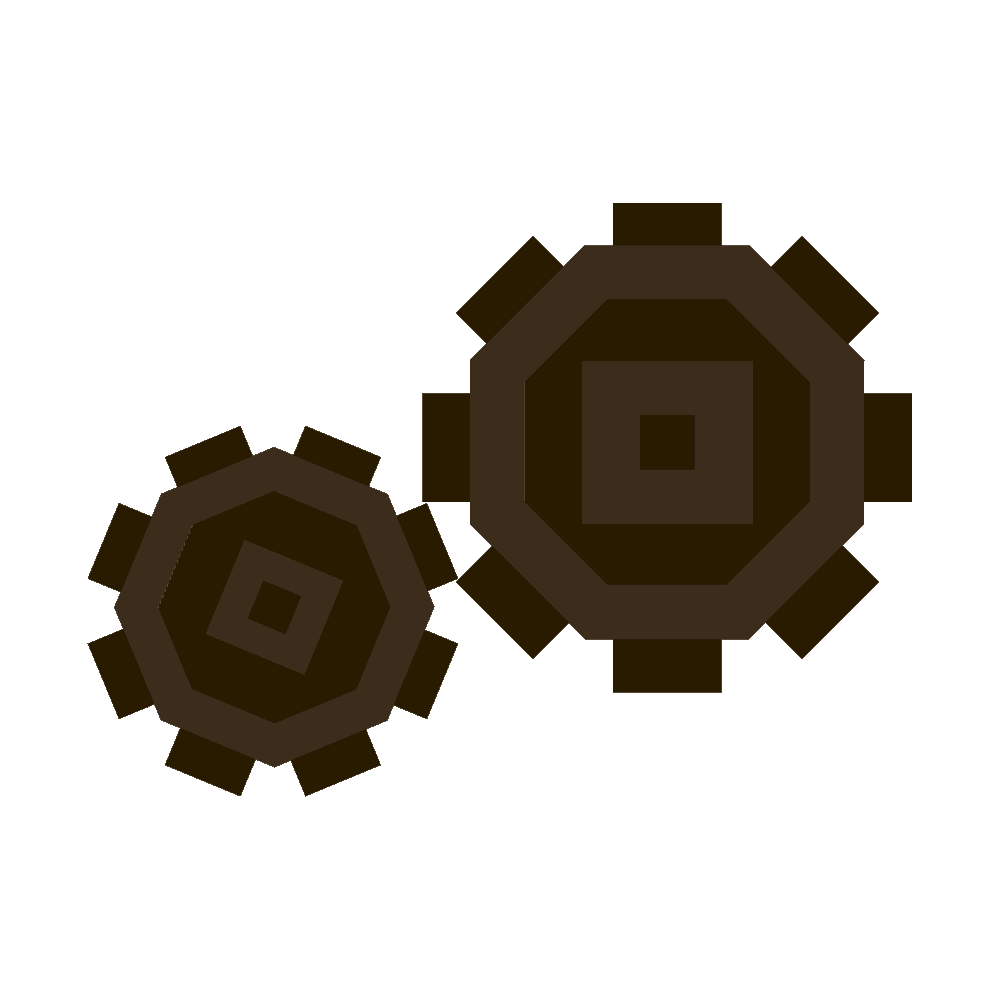
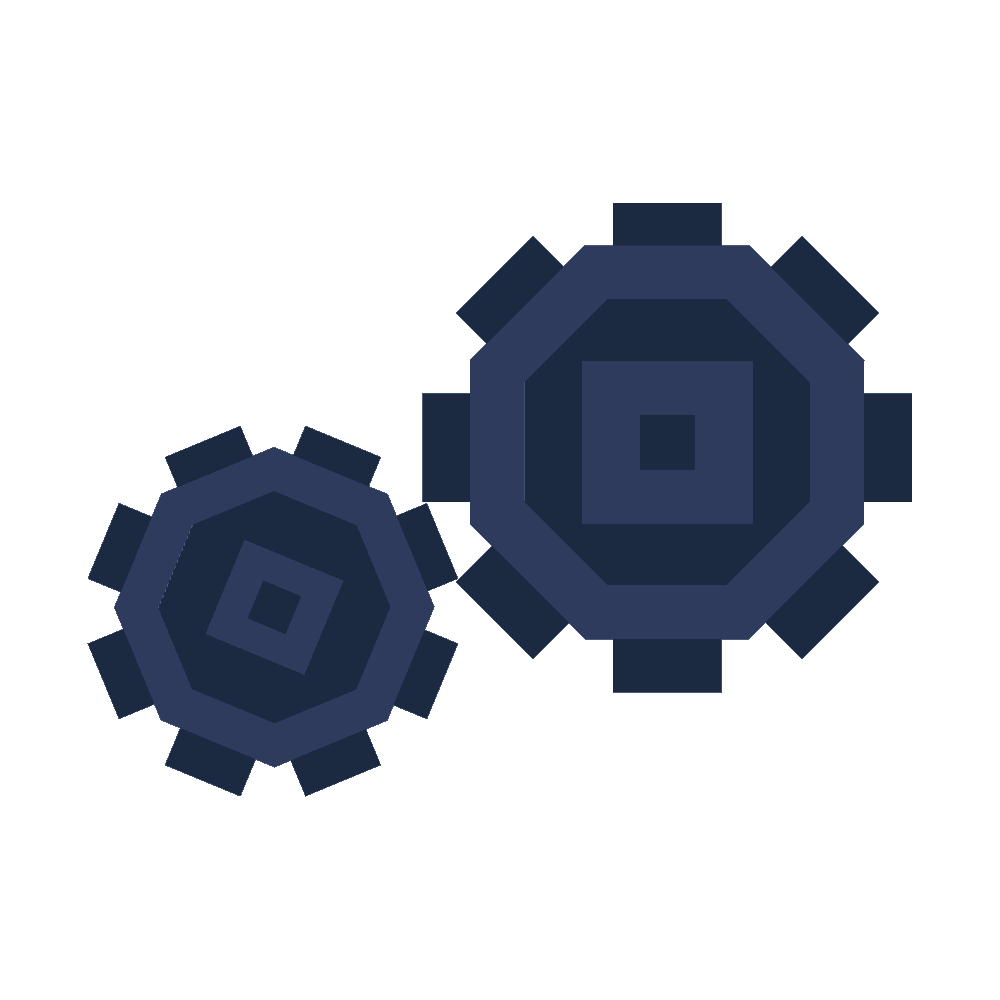
открытие

Changed region(s): [[0.093, 0.186, 0.93, 0.806]]

diff --git a/content/silent_revenge_office/mechanics.md b/content/silent_revenge_office/mechanics.md
@@ -1,0 +1,89 @@
+---
+title: Механики
+---
+Если бы это было игрой...
+
+# Отражения
+## Характеристики
+**Здоровье** рассчитывается по формуле `Основное здоровье + (Уровень Отражения - 1) ^ 1,15 * 10`.  
+**Щит** даёт временный очки здоровья в начале хода по формуле `Недостающее здоровье * Значение Щита`.  
+
+Редкость **VP** - Двойной показатель:
+- V - Value - Ценность - Отношение Отражения к основному сюжету
+- P - Probability - Вероятность - Вероятность того, что Работник мог прийти к такой судьбе - Является негативным показателем
+
+Общий показатель VP высчитывается по формуле `V - P + 4` и принимает целые значения от 0 до 8. Высокая ценность повышает Редкость, а высокая вероятность - снижает.
+
+Стандартные Отражения имеют VP, равное V5P5 = 4.  
+Они имеют высшую ценность, так как являются самими Работниками в основном сюжете. По этой же причине их вероятность тоже максимальная - они уже здесь.
+
+## *Uptie*
+У местного Uptie пока нет названия. Работает он скорее на качественное улучшение Отражение, чем количественное:
+- I - У Отражения доступны только навыки 1 Ранга и Базовая Пассивка.
+- II - Доступны навыки 2 Ранга и Боевые Пассивки.
+- III - Доступны все остальные навыки и Вспомогательные Пассивки.
+- IV - Усиление.
+
+Также переработана оригинальная система Историй Идентичности.  
+Местная система **Историй Отражений** разделяет одру историю Идентичности, на 4 фрагмента, каждый доступен после повышения Uptie:
+- I - Вводная I - Личность Отражения
+- II - Вводная II - Бой Отражения
+- III - Углублённая I - События в жизни Отражения
+- IV - Углублённая II - События в жизни Отражения
+
+Также, если в LCB в этих историях рассказчиком выступал Грешник из того Зеркального Мира или "так называемы Голос в голове", то здесь *наши* Работники наблюдают за своим Отражением и являются рассказчиками.
+
+Если Отражение основано на личности или организации, которые появляются в основном сюжете и играют весомую роль, то его Uptie ограничен II тиром, и дальнейшая прокачка будет открыта только при достижении определённого момента истории.
+
+Также, у Отражений могут быть и побочные истории. Некоторые из них также будут требовать определённой прогрессии в сюжете.
+
+# Навыки
+## Ротация
+Аналогично LCB, но с нюансами.  
+У каждого слота действий также есть свой столбец, но теперь, вместо того, чтобы вмещать 2 атакующих навыка, есть две строки. Верхняя вмещает один навык **Атаки** и нижняя вмещает один навык **Защиты**. ЭГО навыки помещаются в верхнюю строку.
+
+Если в LCB стандартным набором навыков является:
+- 3x Атака 1 Ранга
+- 2x Атака 2 Ранга
+- 1x Атака 3 Ранга
+- Защита, требующая отдельной активации
+
+То в ОТМ это:
+- 2x Атака 1 Ранга
+- 1x Атака 2 Ранга
+- 2x Защита 1 Ранга
+- 1x Защита 2 Ранга
+
+## Защитные навыки
+Здесь они сильно отличаются.  
+По сути своей, это те же самые навыки **Атаки**, но при проигрыше в столкновении, остаётся одна монета (если в навыке не указано иное) и активируется защитный эффект, указанные в навыке.  
+У стандартных Отражений навыки **Защиты** просто являются урезанными версиями **Атак** соответствующего ранга.
+
+Если **Атакующий** навык уже нацелен, то **Защитный** можно сделать *реактивным*. Он будет автоматически активироваться против первой односторонней атаки на этого Работника. Возможно. придумаю отдельные эффекты для реактивной Защиты для некоторых Отражений.
+
+При проигрыше у защитного навыка остаётся только одна монета при применении защиты.
+
+# Статусы
+## "Изменение Статуса"
+Я использую свой синтаксис для описания изменений значений Статусов, нацеленный для то, чтобы сделать описания более краткими и чистыми.
+
+В первую очередь, понятия "Сила" и "Счётчик" не играют такой важной роли как в LCB.  
+Если есть Статус, у которого только Сила или только Счётчик, то он обозначается X.  
+Если есть и Сила, и Счётчик, то - X:Y, где X - Сила, Y - Счётчик.  
+Такая система также предполагает создание Статусов с тремя и более значениями без нужды придумывать новые понятия наряду с "Сила" и "Счётчик".
+
+Изменение значений Статуса обозначается арифметическим знаком перед числом. Например:
+- +3 - Увеличит значение на 3.
+- -5:+0 - Уменьшит Силу на 5.
+- +0:\*2 - Увеличит Счётчик в 2 раза.
+
+Стоит обратить внимание, что если значение не меняется, то ставится +0. Это потому, что:
+- 3 - Сделает значение *равным* 3.
+- -5:0 - Уменьшит Силу на 5 и сделает Счётчик *равным* 0.
+- 0:\*2 - Сделает Силу *равной* 0 и увеличит Счётчик в 2 раза.
+
+## "Равность Статуса"
+Сравнение значений статуса для условий работает схожим образом:
+- \>3 - Если текущее значение больше чем 3.
+- <5:0 - Если текущая Сила меньше 5 и Счётчик равен 0.
+- !0:>=2 - Если текущая Сила не равна 0 и Счётчик больше или равен 2.

diff --git a/content/silent_revenge_office/neotes/reflections.md b/content/silent_revenge_office/neotes/reflections.md
@@ -20,6 +20,8 @@ title: Отражения
 Кстати, стоит подробней объяснить про форму нашего Офиса. Таинственное Лицо поделилось ещё своей разработкой, которую и представляет собой наша особая одежда. Когда она не надета, она полностью белая, в том числе и акцентные нити. Если такую одежду наденет человек, то она окрасится в цвет, соответствующий нашей Проекции Спектра для надевшего (то есть, для всех нас, наш цвет Проекции - цвет нашего Офиса). А акцентные нити сменят свой цвет на тот, который соответствует этому конкретному человеку.
 Кстати, ещё одна функция Линзы - она может определить Истинный Цвет поверхности, на который наведена, независимо от освещения. Именно Истинный Цвет акцентных нитей и является личным цветом человека, потому что освещение может сильно влиять на восприятие.
 
+**\[\[ПОСЛЕ 8 СОБРАНИЯ\]\]**
+
 **Сбитая Дисперсия** - явление, которое мы обнаружили после... ситуации с Таинственным Лицом%%, то есть, Главой Нео%%. Название придумал Вудрус.  
 Если вставить в Линзу картридж, который мы нашли у Лица, то становятся доступны новые Проекции Спектра. Только вот они уже не подходят под то описание, которое я давал ранее. Там человек уже может сильно меняться.  
 После Треска Зеркала (название, которое мы дали тому событию с Лицом) я связался с компанией Лимбус, так как у них есть похожая технология.  
@@ -39,3 +41,12 @@ title: Отражения
 Они не только получат доступ к полноценным Идентичностям из Зеркальных Миров...  
 Кто знает, может, они смогут достигнуть такого Зеркального Мира, в котором даже не существует Города. Я уже знаю об одном таком Мире.  
 Великая Группа...%%
+
+---
+
+Если непонятно:
+- Отражение = Идентичность
+- Проекция Спектра = Зеркальный Мир
+- Линза = Зеркало
+
+Не совсем тоже самое, но аналогично.

diff --git a/content/silent_revenge_office/neotes/factions.md b/content/silent_revenge_office/neotes/factions.md
@@ -2,16 +2,16 @@
 title: Объединения
 draft: false
 ---
-# Театр Теней
+# Театр Теней \[СОБРАНИЕ 6\]
 Синдикат, базирующийся в 13-ом районе.  
 Проводят подпольные эксперименты, пытаясь использовать тени в качестве оружия.  
 Для отвлечения от своей деятельности проводят представления с шоу теней.  
 Ведёт активное противоборство с Обеденным Концертом.
-# Обеденный Концерт
+# Обеденный Концерт \[СОБРАНИЕ 6\]
 Синдикат, базирующийся в 13-лм районе.  
 Используют звуковые волны для физического и психического воздействия на человека.  
 Ведёт активное противоборство с Театром Теней.
-# Касание Гиппократа (т.и.к. Ассоциативные Целители)
+# Касание Гиппократа (т.и.к. Ассоциативные Целители) \[СБОРАНИЕ 7\]
 Офис, основной род деятельности которого заключается в предоставлении своих Корректировщиков для медицинских и рекреационных услуг.  
 Привычной практикой является подписание контракта между секцией Ассоциации и Корректировщиком Офиса, суть которого заключается в продолжительном пребывании Корректировщика в соответствующей секции для оказания услуг (за что Касание Гиппократа и стало известно как Ассоциативные Целители). Во время действия контракта или в качестве отдельного заказа Корректировщик может быть привлечён к операции заказчика.  
 Корректировщики Офиса носят белые халаты с повязками на руке, на которых изображён символ Офиса. В арсенале не ограничены, но преобладают компактные оружия, которые в любой момент можно спрятать в халат и достать при необходимости.

diff --git a/content/silent_revenge_office/reflections/reflections/wudrus-silent-revenge.md b/content/silent_revenge_office/reflections/reflections/wudrus-silent-revenge.md
@@ -7,7 +7,7 @@ draft: false
 ---
 <table>
 	<tr>
-		<td colspan=2 style="text-align:center;font-size:24px;background:black"><b>Вудрус ~ <img src="sro.png" style="height:24px;vertical-align:sub"> <span style="color:#2f3b5c">Офис Тихая Месть</span></b></td>
+		<td colspan=2 style="text-align:center;font-size:24px;background:black"><b>Вудрус ~ <img src="sro.png" style="height:24px;vertical-align:sub"> <span style="color:#2f3b5c">Техник Офиса Тихая Месть</span> ~ #2F3B5C</b></td>
 	</tr>
 	<tr>
 		<td colspan=2><img src="wudrus-silent-revenge.png"></td>
@@ -94,7 +94,7 @@ draft: false
 		<td class=skill style="border:2px solid white">Техника дыхания ~ Вспомогательная пассивная способность.</td>
 	</tr>
 	<tr>
-		<td><b>Требует</b>: 3x <img src="pride.png" style="vertical-align:sub;height:20px">Гордыня<br>При изменении <span class="stG">Дыхание</span> на себе при помощи эффектов навыков, меняет <span class="stG">Хлам</span> на себе на <b>-3</b> для смены <span class="stG">Дыхание</span> на себе дополнительно на <b>+X:+1</b>, где <b>X</b> - первоначальное изменение соответствующего значения в навыке.</td>
+		<td><b>Требует</b>: 3x<img src="wrath.png" style="vertical-align:sub;height:20px">Гнев  2x<img src="pride.png" style="vertical-align:sub;height:20px">Гордыня<br>При изменении <span class="stG">Дыхание</span> на себе при помощи эффектов навыков, меняет <span class="stG">Хлам</span> на себе на <b>-3</b> для смены <span class="stG">Дыхание</span> на себе дополнительно на <b>+X:+1</b>, где <b>X</b> - первоначальное изменение соответствующего значения в навыке.</td>
 		<td><b>Требует</b>: 3x <img src="pride.png" style="vertical-align:sub;height:20px">Гордыня<br>Когда Работник меняет свой <span class="stG">Дыхание</span> на себе при помощи эффектов навыков, дополнительно меняет его на <b>+2:+1</b>.</td>
 	</tr>
 </table>

diff --git a/content/silent_revenge_office/neotes/workers_documents/workers.md b/content/silent_revenge_office/neotes/workers_documents/workers.md
@@ -1,0 +1,25 @@
+---
+title: Работники
+---
+В нашем Офисе есть два отдела: Офисники и Агенты.
+
+**Офисники** - Занимаются обработкой заказов и обслуживанием. Также, главный командный центр.
+- [[neo|Нео]]
+	- \[До окончания 8 Собрания\] Менеджер Офиса. Управляю ресурсами и принимаю заказы.
+	- \[После окончания 8 Собрания\] Директор Офиса. Теперь полноценный владелец Офиса.
+- [[tom|Том]]
+	- Оператор. Занимается связью с Агентами и заказчиками во время выполнения заказов.
+- [[wudrus|Вудрус]]
+	- Техник. Занимается обслуживанием приборов и экипировки.
+- [[ugol|Уголь]]
+	- Прикладной консультант. Очень натянутая должность. Предусмотрено на случай нападения на Офис в отсутствие Агентов.
+
+**Агенты** - Основная наша рабочая сила. Именно они выдвигаются для выполнения заказов.
+- [[raven|Рэйвен]]
+	- Старший агент. Контролирует агентов. Предусмотрено на случай пропажи связи с Офисом.
+- [[boxser|Боксер]]
+	- Тяжеловесный агент.
+- [[koshak|Кошак]]
+	- Легковой агент.
+- [[kari|Кари]]
+	- Агент стратегического диссонанса. Мы не смогли выделить для Кари какую-лиюо внятную должность из-за её поведения. ._.

diff --git a/content/index.md b/content/index.md
@@ -1,10 +1,24 @@
 ---
 publish: true
-title: Great Company Wiki
+title: Офис Тихая Месть
 ---
+Что такое **Офис Тихая месть**?  
+В первую очередь, это мысленный эксперимент.  
+Не "Что если бы GG попал в Город Project Moon?", а "Что если бы GG изначально появился в Городе Project Moon?". Это альтернативная история.
 
-# Документы
+Мой Офис Тихая Месть оформлен как рассказ, разделённый на эпизоды наподобие Limbus Company, и в то же время это журнал гейм-дизайна: "Что если бы Офис Тихая Месть был игрой как Limbus Company?".
 
-## История
+- [[silent_revenge_office/neotes/neotes|ЗеНеотки (Заметки Нео)]]
+- [[silent_revenge_office/reflections/index|Отражения]]
+- [[mechanics|Механики]]
 
-![[header.base]]
+Пока что без сюжета. Доступен пролог, если хотите, можете найти его в навигации, но скорее всего я буду переделывать оформление.
+
+<div style="max-height:325px;overflow:auto;border:1px solid #ccc;padding:10px" class="scroll-box">
+
+**Update Log**
+
+>**30.09.2026-14:48**  
+>Первое "открытие".
+
+</div>

diff --git a/content/silent_revenge_office/reflections/index.md b/content/silent_revenge_office/reflections/index.md
@@ -1,12 +1,24 @@
 ---
 draft: false
+title: Отражения
 ---
 Основные статусы стандартных Отражений:
 - Нео - Заряд
-- Вудрус - Дыхание
 - Том - Утопание
-- Боксер - Тремор
-- Кари - Разрыв
-- Кошак - Горение
+- Вудрус - Дыхание
 - Уголь - Тремор
 - Рэйвен - Кровотечение
+- Боксер - Тремор
+- Кошак - Горение
+- Кари - Разрыв
+
+
+Стандартные Отражения:
+- Нео - Менеджер Офиса Тихая Месть
+- Том - Оператор Офиса Тихая Месть
+- [[wudrus-silent-revenge|Вудрус -  Техник Офиса Тихая Месть]]
+- Уголь - Прикладной Консультант Офиса Тихая Месть
+- [[raven-silent-revenge|Рэйвен - Ст. Агент Офиса Тихая Месть]] \[WIP\]
+- Боксер - Тж. Агент Офиса Тихая Месть
+- [[koshak-silent-revenge|Кошак - Лк. Агент Офиса Тихая Месть]] \[WIP\]
+- Кари - АСД Офиса Тихая Месть

diff --git a/content/silent_revenge_office/neotes/workers_documents/neo.md b/content/silent_revenge_office/neotes/workers_documents/neo.md
@@ -4,9 +4,9 @@ draft: false
 ---
 # Мысли Нео
 **Имя**: Нео Ровия  
-**Текущая  должность**: ~~Менеджер~~ Директор, Офисники  
+**Текущая  должность**: ~~Менеджер~~ Директор, Офисники \[Менеджер до окончания 8 Собрания.\]  
 **Дата рождения**: XX/XX/959  
-**Место рождения**: 11-ый район.  
+**Место рождения**: 11-ый район (K).  
 **Оружие**: Трость со скрытым клинком.
 # Таинственная Правда
 Бывший менеджер, ныне директор Офиса, вопросил на работе то, суть чего не должна была ему открыться.

diff --git a/content/silent_revenge_office/neotes/workers_documents/koshak.md b/content/silent_revenge_office/neotes/workers_documents/koshak.md
@@ -6,7 +6,7 @@ draft: false
 **Имя**: Кошак Шимер  
 **Текущая  должность**: Легковой агент, Агенты  
 **Дата рождения**: XX/XX/962  
-**Место рождения**:  Подворотни 25-ого района.  
+**Место рождения**:  Подворотни 25-ого района (Y).  
 **Оружие**: Кинжал и всё окружение.
 # Таинственная Правда
 Легковик рос в условиях, где сомнения - смерть, поэтому пришлось экономить время, выбирая первый же попавшийся пункт.

diff --git a/content/silent_revenge_office/neotes/workers_documents/boxser.md b/content/silent_revenge_office/neotes/workers_documents/boxser.md
@@ -6,7 +6,7 @@ draft: false
 **Имя**: Боксер Леоа  
 **Текущая  должность**: Тяжеловесный агент, Агенты  
 **Дата рождения**: XX/XX/956  
-**Место рождения**: 16-ый район.  
+**Место рождения**: 16-ый район (P).  
 **Оружие**: Коса.
 # Таинственная Правда
 Тяжеловес всегда был готов настоять на своём, пока разногласия не разрушили бывший коллектив.

diff --git a/content/silent_revenge_office/neotes/workers_documents/kari.md b/content/silent_revenge_office/neotes/workers_documents/kari.md
@@ -6,7 +6,7 @@ draft: false
 **Имя**: Кари Нелло  
 **Текущая должность**: Агент Стратегического Диссонанса, Агенты  
 **Дата рождения**: 13/02/965  
-**Место рождения**: 13-ый район.  
+**Место рождения**: 13-ый район (M).  
 %%Решил сменить район, чтобы он так сильно не влиял на историю.%%
 **Оружие**: Танто и теневые способности.
 ## Внешний вид

diff --git a/content/silent_revenge_office/neotes/workers_documents/ugol.md b/content/silent_revenge_office/neotes/workers_documents/ugol.md
@@ -6,7 +6,7 @@ draft: false
 **Имя**: Уголь Карс  
 **Текущая  должность**: Прикладной консультант, Офисники  
 **Дата рождения**: XX/XX/955  
-**Место рождения**: 7-ой район.  
+**Место рождения**: 7-ой район (G).  
 **Оружие**: Топор.  
 # Таинственная Правда
 Консультант принял идеи церкви, считая, что они правдивы, но чуть из-за этого не умер.
